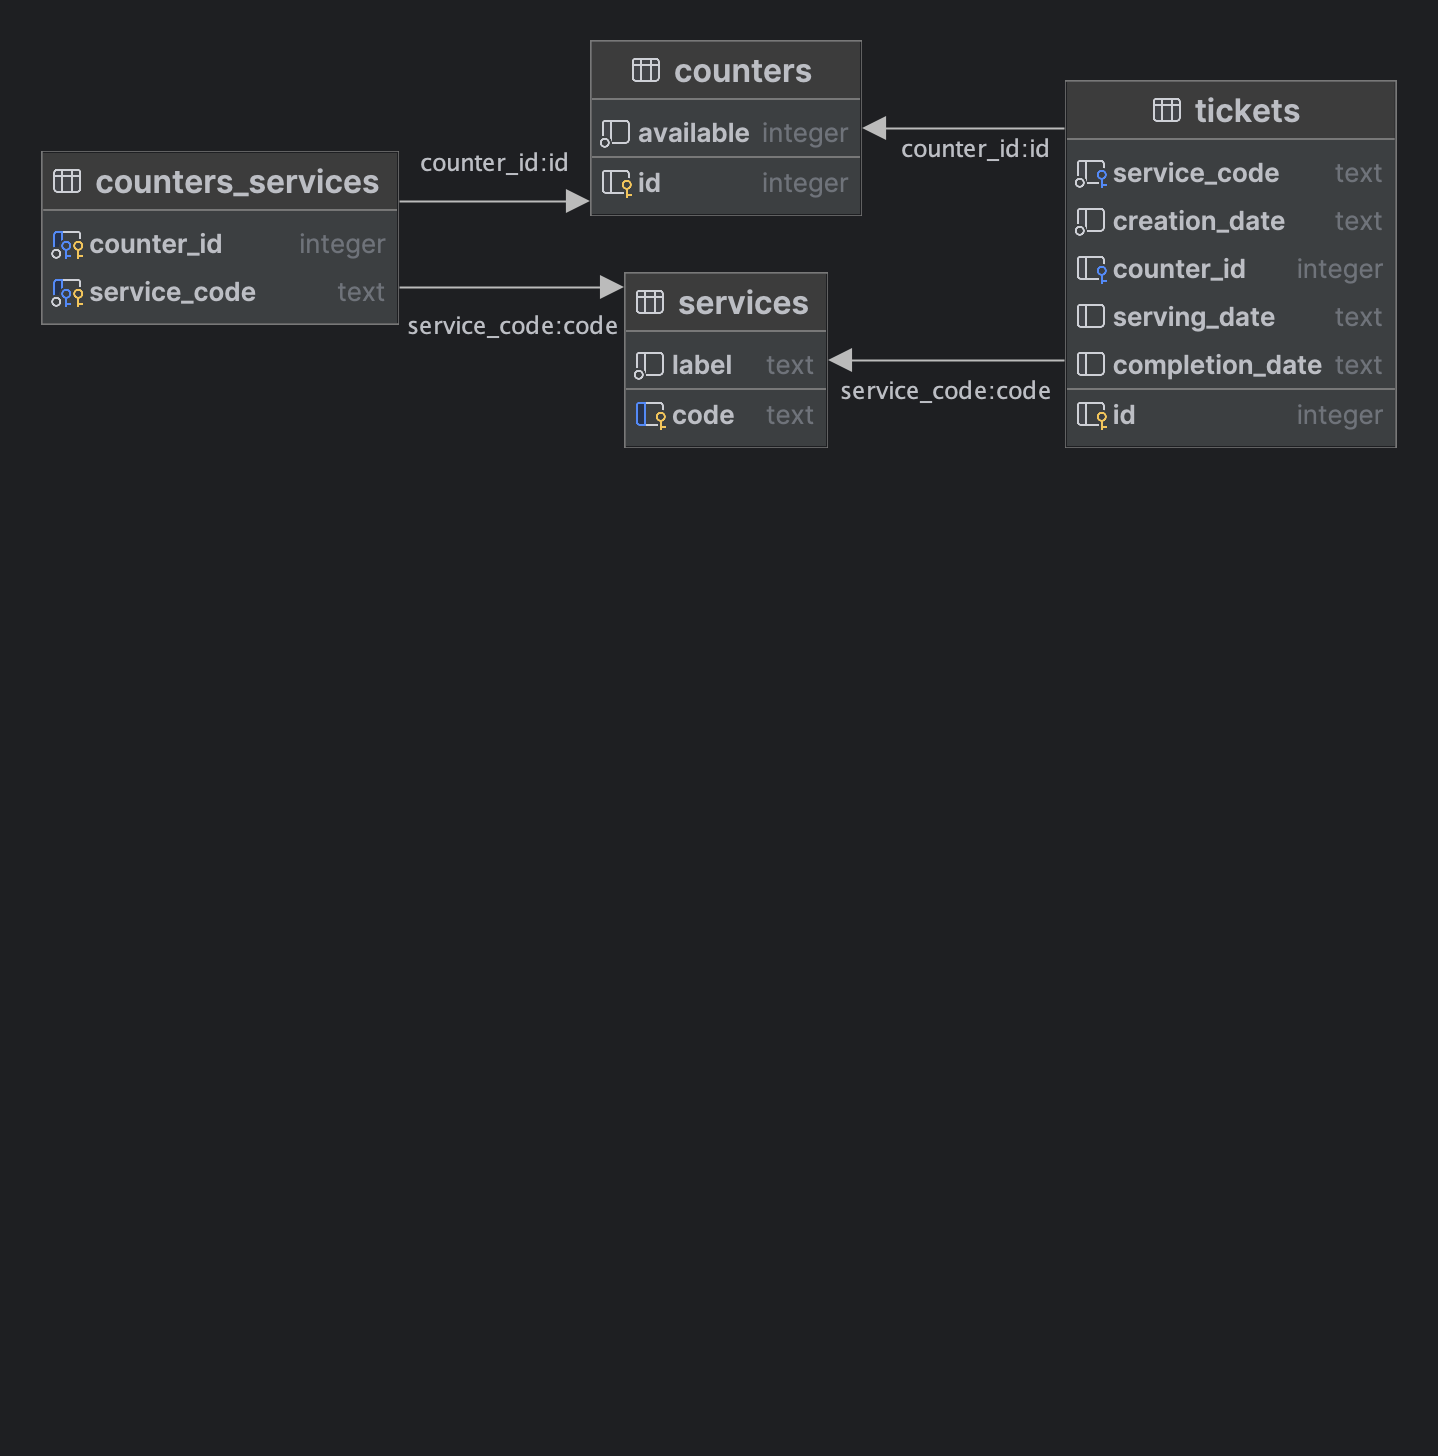
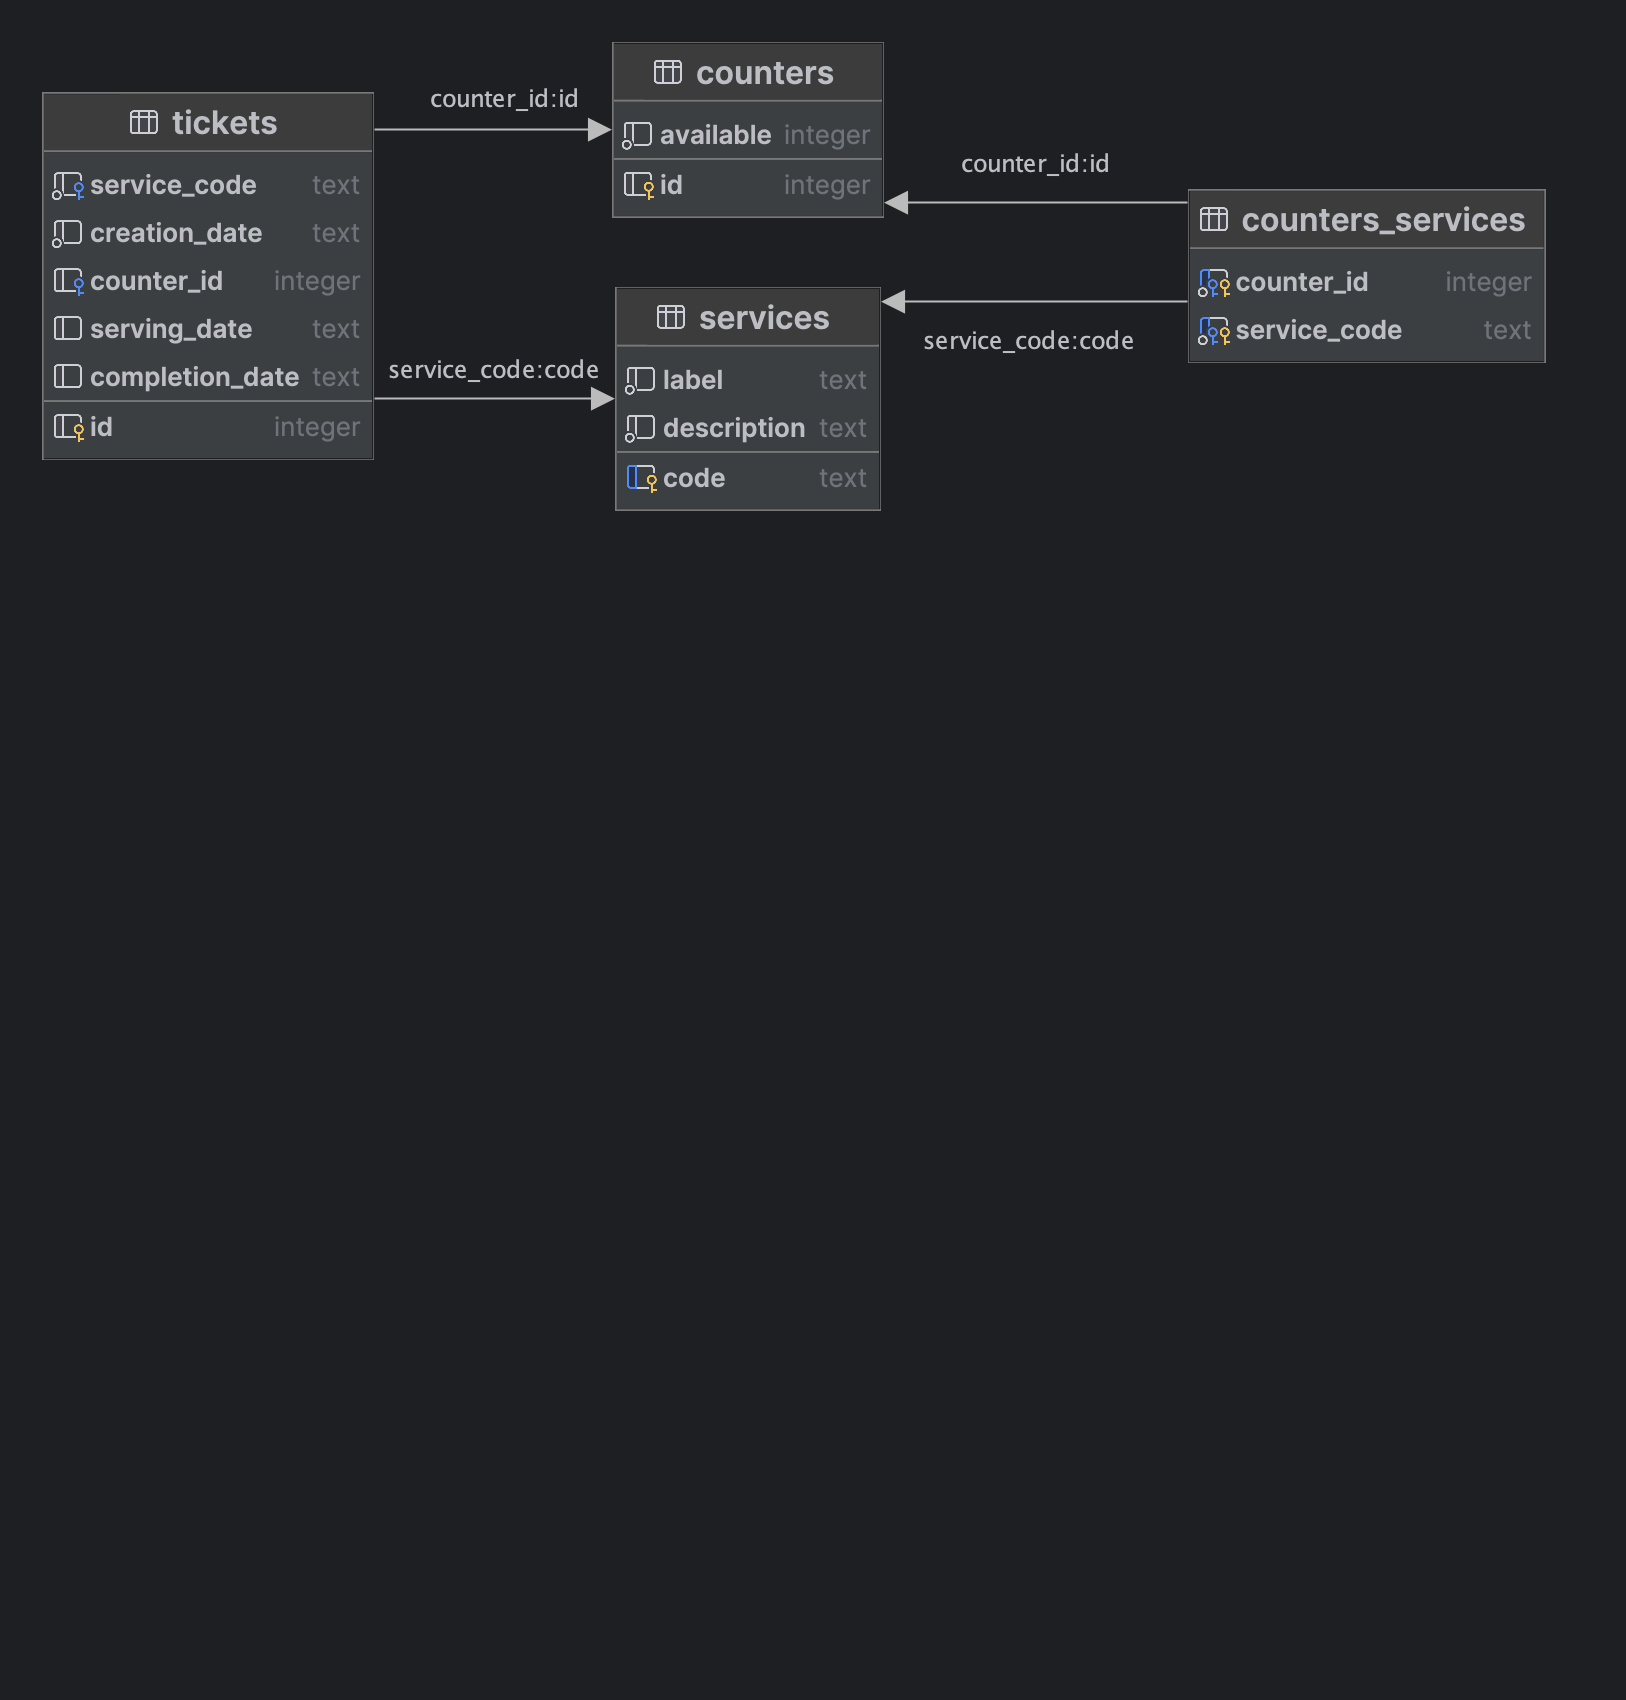
fix(Database): Add missing property "description"

Changed region(s): [[0.0, 0.0, 0.9791, 0.3091]]

diff --git a/database/README.md b/database/README.md
@@ -6,6 +6,7 @@
 ### services
 - code (text): uniquely identifies the service
 - label (text): human-readable name of the service
+- description (text): human-readable description of the service
 ### counters
 - id (integer): uniquely identifies the counter
 - available (integer): whether the counter is available (1) or not (0)
